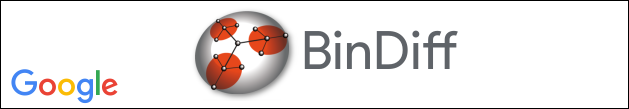
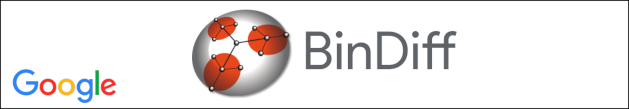
UI: Support HiDPI images
This change adds`getImage()` and `getImageIcon()` methods that use a MediaTracker to
wait for the multi-resolution images to be fully loaded. Otherwise, `ImageIcon::getIconWidth()` may return -1 and Swing may get confused during drawing.

PiperOrigin-RevId: 351596873

diff --git a/java/ui/src/main/java/com/google/security/zynamics/bindiff/utils/ResourceUtils.java b/java/ui/src/main/java/com/google/security/zynamics/bindiff/utils/ResourceUtils.java
@@ -21,10 +21,11 @@ import com.google.common.flogger.FluentLogger;
 import com.google.common.io.ByteSource;
 import com.google.security.zynamics.bindiff.BinDiff;
 import com.google.security.zynamics.zylib.io.FileUtils;
-import java.awt.GraphicsConfiguration;
-import java.awt.GraphicsEnvironment;
+import java.awt.Component;
 import java.awt.Image;
+import java.awt.MediaTracker;
 import java.awt.Toolkit;
+import java.awt.image.BaseMultiResolutionImage;
 import java.io.File;
 import java.io.IOException;
 import java.io.InputStream;
@@ -40,7 +41,7 @@ public class ResourceUtils {
   private static final String BINDIFF_PACKAGE =
       BinDiff.class.getPackage().getName().replace('.', '/');
 
-  // Blaze packages up resource files differently than Maven. Search "ui" and "zylib" as well.
+  // Blaze/Bazel packages up resource files differently than Maven. Search "ui" and "zylib" as well.
   private static final ImmutableList<String> SEARCH_PATHS =
       ImmutableList.of(
           "",
@@ -49,46 +50,66 @@ public class ResourceUtils {
 
   private ResourceUtils() {}
 
-  public static boolean isScaledDisplay() {
-    final GraphicsConfiguration config =
-        GraphicsEnvironment.getLocalGraphicsEnvironment()
-            .getDefaultScreenDevice()
-            .getDefaultConfiguration();
-    return !config.getDefaultTransform().isIdentity();
+  public static Image getImage(final String imagePath) {
+    return getImage(imagePath, null);
   }
 
-  public static Image getImage(final String imagePath) {
-    final boolean scaledDisplay = isScaledDisplay();
+  public static Image getImage(final String imagePath, final Component component) {
     URL imageUrl = null;
+    URL imageUrl2x = null;
     for (String path : SEARCH_PATHS) {
-      if (scaledDisplay) {
-        // On scaled displays, try to find a 2x scaled version of the image first.
-        final File imageFilePath = new File(imagePath);
-        imageUrl =
-            BinDiff.class.getResource(
-                path
-                    + FileUtils.getFileBasename(imageFilePath)
-                    + "@2."
-                    + FileUtils.getFileExtension(imageFilePath));
-      }
-      if (imageUrl == null) {
-        imageUrl = BinDiff.class.getResource(path + imagePath);
-      }
+      // Try to find a 2x scaled version of the image.
+      final File imageFilePath = new File(imagePath);
+      imageUrl = BinDiff.class.getResource(path + imagePath);
+      imageUrl2x =
+          BinDiff.class.getResource(
+              path
+                  + BinDiffFileUtils.removeFileExtension(imageFilePath.getPath())
+                  + "@2."
+                  + FileUtils.getFileExtension(imageFilePath));
       if (imageUrl != null) {
         break;
       }
     }
-
     if (imageUrl == null) {
       logger.at(Level.WARNING).log("Image resource not found: \"%s\"", imagePath);
       return null;
     }
 
-    return Toolkit.getDefaultToolkit().getImage(imageUrl);
+    final Toolkit toolkit =
+        component != null ? component.getToolkit() : Toolkit.getDefaultToolkit();
+    final Image image = toolkit.getImage(imageUrl);
+    final Image image2x = imageUrl2x != null ? toolkit.getImage(imageUrl2x) : null;
+
+    if (component != null) {
+      // Ensure all resolution variants are loaded. While Swing also uses a MediaTracker to track
+      // image load state, it does so inconsistently, sometimes leading to "Invalid Image variant"
+      // errors during paint. Waiting for these images should be fast, as they are part of the JAR.
+      final MediaTracker mt = new MediaTracker(component);
+      mt.addImage(image, 0);
+      if (image2x != null) {
+        mt.addImage(image2x, 1);
+      }
+      try {
+        mt.waitForAll();
+      } catch (final InterruptedException e) {
+        logger.at(Level.WARNING).withCause(e).log(
+            "Interrupted while loading image resource: \"%s\"", imagePath);
+      }
+    }
+
+    if (image2x == null) {
+      return image;
+    }
+    return new BaseMultiResolutionImage(image, image2x);
   }
 
   public static ImageIcon getImageIcon(final String imagePath) {
-    return new ImageIcon(getImage(imagePath));
+    return getImageIcon(imagePath, null);
+  }
+
+  public static ImageIcon getImageIcon(final String imagePath, final Component component) {
+    return new ImageIcon(getImage(imagePath, component));
   }
 
   public static InputStream getResource(final String resourcePath) {

diff --git a/java/ui/src/main/java/com/google/security/zynamics/bindiff/gui/tabpanels/TabPanelFunctions.java b/java/ui/src/main/java/com/google/security/zynamics/bindiff/gui/tabpanels/TabPanelFunctions.java
@@ -25,20 +25,16 @@ import com.google.security.zynamics.zylib.gui.CDialogAboutEx;
 import com.google.security.zynamics.zylib.gui.GuiHelper;
 import com.google.security.zynamics.zylib.gui.license.UpdateCheckHelper;
 import java.awt.Desktop;
-import java.awt.Image;
 import java.io.IOException;
 import java.net.MalformedURLException;
 import java.net.URISyntaxException;
 import java.net.URL;
 import java.util.ArrayList;
 import java.util.List;
-import javax.swing.ImageIcon;
 import javax.swing.JOptionPane;
 
 /** Controller class with functions applicable to all "tab panels". */
 public class TabPanelFunctions {
-  private static final ImageIcon BINDIFF_ABOUT_IMAGE =
-      ResourceUtils.getImageIcon(Constants.ABOUT_BINDIFF_IMAGE_PATH);
 
   private final Workspace workspace;
 
@@ -101,17 +97,21 @@ public class TabPanelFunctions {
             + "different licensing requirements.\n"
             + "Please see the manual for a complete list.\n";
 
-    final Image appImage = BINDIFF_ABOUT_IMAGE.getImage();
-    final CDialogAboutEx dlg =
+    final CDialogAboutEx aboutDialog =
         new CDialogAboutEx(
-            window, new ImageIcon(appImage), Constants.PRODUCT_NAME, message, description, urls);
+            window,
+            ResourceUtils.getImageIcon(Constants.ABOUT_BINDIFF_IMAGE_PATH, getMainWindow()),
+            Constants.PRODUCT_NAME,
+            message,
+            description,
+            urls);
 
-    dlg.setIconImage(ResourceUtils.getImageIcon(Constants.APP_ICON_PATH_16X16).getImage());
+    aboutDialog.setIconImage(ResourceUtils.getImage(Constants.APP_ICON_PATH_16X16));
 
-    dlg.setSize(dlg.getWidth() - 8, dlg.getHeight());
+    aboutDialog.setSize(aboutDialog.getWidth() - 8, aboutDialog.getHeight());
 
-    GuiHelper.centerChildToParent(window, dlg, true);
-    dlg.setVisible(true);
+    GuiHelper.centerChildToParent(window, aboutDialog, true);
+    aboutDialog.setVisible(true);
   }
 
   public void showHelp() {

diff --git a/java/zylib/src/main/java/com/google/security/zynamics/zylib/gui/CDialogAboutEx.java b/java/zylib/src/main/java/com/google/security/zynamics/zylib/gui/CDialogAboutEx.java
@@ -17,7 +17,6 @@ package com.google.security.zynamics.zylib.gui;
 import com.google.security.zynamics.zylib.general.Pair;
 import com.google.security.zynamics.zylib.gui.UrlLabel.UrlLabel;
 import com.google.security.zynamics.zylib.resources.Constants;
-
 import java.awt.BorderLayout;
 import java.awt.GridBagConstraints;
 import java.awt.GridBagLayout;
@@ -27,7 +26,6 @@ import java.awt.event.ActionEvent;
 import java.awt.event.ActionListener;
 import java.net.URL;
 import java.util.List;
-
 import javax.swing.BorderFactory;
 import javax.swing.ImageIcon;
 import javax.swing.JButton;
@@ -36,7 +34,6 @@ import javax.swing.JLabel;
 import javax.swing.JPanel;
 import javax.swing.JTextArea;
 import javax.swing.border.EmptyBorder;
-
 
 public class CDialogAboutEx extends JDialog {
   private static final long serialVersionUID = -3626217728291899345L;
@@ -60,12 +57,8 @@ public class CDialogAboutEx extends JDialog {
     c.insets = new Insets(3, 3, 3, 3);
 
     final JPanel imagePanel = new JPanel();
-
-    final JLabel piclabel = new JLabel();
-
-    piclabel.setIcon(logo);
-
-    imagePanel.add(piclabel);
+    final JLabel picLabel = new JLabel(logo);
+    imagePanel.add(picLabel);
 
     c.gridy = 0;
 

diff --git a/java/ui/src/main/java/com/google/security/zynamics/bindiff/gui/tabpanels/projecttabpanel/treenodepanels/DefaultTreeNodeContextPanel.java b/java/ui/src/main/java/com/google/security/zynamics/bindiff/gui/tabpanels/projecttabpanel/treenodepanels/DefaultTreeNodeContextPanel.java
@@ -20,24 +20,15 @@ import com.google.security.zynamics.bindiff.utils.ResourceUtils;
 import java.awt.Color;
 import java.awt.Dimension;
 import java.util.List;
-import javax.swing.Icon;
 import javax.swing.JLabel;
 
 public class DefaultTreeNodeContextPanel extends AbstractTreeNodeContextPanel {
-  private static final Icon IMAGE =
-      ResourceUtils.getImageIcon(Constants.DEFAULT_BACKGROUND_IMAGE_PATH);
-
-  private final JLabel imageLabel = new JLabel(IMAGE);
 
   public DefaultTreeNodeContextPanel() {
-    init();
-  }
-
-  private void init() {
     setMinimumSize(new Dimension(0, 0));
     setBackground(Color.WHITE);
 
-    add(imageLabel);
+    add(new JLabel(ResourceUtils.getImageIcon(Constants.DEFAULT_BACKGROUND_IMAGE_PATH, this)));
   }
 
   @Override
